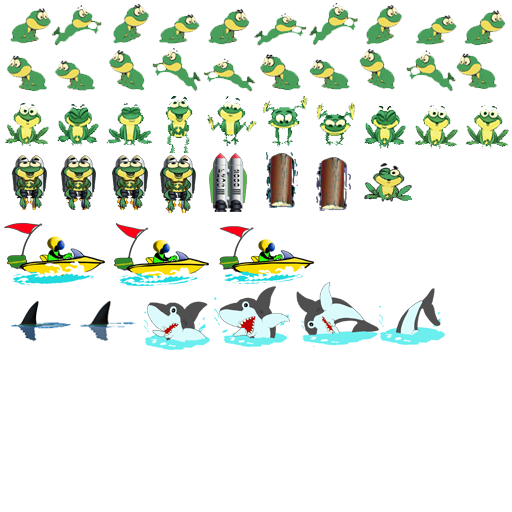
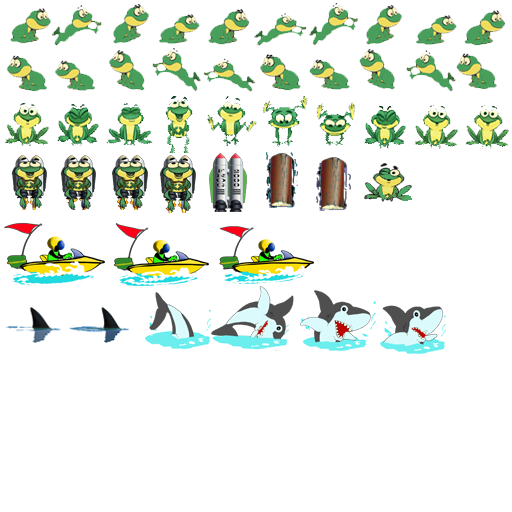
Sharks!! still needs work but theyre there now.

Changed region(s): [[0.2812, 0.5312, 0.875, 0.6875], [0.0312, 0.5938, 0.25, 0.6875]]

diff --git a/core/src/com/upstream/World.java b/core/src/com/upstream/World.java
@@ -22,10 +22,11 @@ public class World {
 	}
 
 	public static final float WORLD_WIDTH = 10;
-	public static final float WORLD_HEIGHT = 15 * 20;
+	public static final float WORLD_HEIGHT = 15 * 30; // changed for testing from 15*20
 	public static final int WORLD_STATE_RUNNING = 0;
 	public static final int WORLD_STATE_NEXT_LEVEL = 1;
 	public static final int WORLD_STATE_GAME_OVER = 2;
+    public static final int WORLD_END_LEVEL = 2;
 	public static final Vector2 gravity = new Vector2(0, -12);
 
 	public final Frog frog;
@@ -33,6 +34,7 @@ public class World {
 	public final List<TreeLog> treeLogs;
 	public final List<Turtle> turtles;
 	public final List<Alligator> alligators;
+    public final List<Shark> sharks;
 	public final List<Fly> flys;
 	public GoldenTurtle goldenturtle;
 	public final WorldListener listener;
@@ -42,6 +44,7 @@ public class World {
 	public int score;
     public int mode;
 	public int state;
+    public int level;
 	public Scoring scoring;
 
 	public World (WorldListener listener) {
@@ -50,6 +53,7 @@ public class World {
 		this.treeLogs = new ArrayList<TreeLog>();
 		this.turtles = new ArrayList<Turtle>();
 		this.alligators = new ArrayList<Alligator>();
+        this.sharks = new ArrayList<Shark>();
 		this.flys = new ArrayList<Fly>();
 		this.listener = listener;
 		rand = new Random();
@@ -85,12 +89,18 @@ public class World {
                         LillyPad.PLATFORM_HEIGHT / 2 + TreeLog.PLATFORM_HEIGHT / 2);
 				treeLogs.add(treeLog);
 			}
-            if(mode==1)
-			if (y > WORLD_HEIGHT / 3 && rand.nextFloat() > 0.9f) {
-				Alligator alligator = new Alligator(lillyPad.position.x + rand.nextFloat(), lillyPad.position.y
-					+ Alligator.GATOR_HEIGHT + rand.nextFloat() * 2);
-				alligators.add(alligator);
-			}
+            if(mode==1) {
+                if (y > WORLD_HEIGHT / 3 && rand.nextFloat() > 0.9f) {
+                    Alligator alligator = new Alligator(lillyPad.position.x + rand.nextFloat(), lillyPad.position.y
+                            + Alligator.GATOR_HEIGHT + rand.nextFloat() * 2);
+                    alligators.add(alligator);
+                }
+                if (y > WORLD_HEIGHT / 4 && rand.nextFloat() > 0.5f) {
+                    Shark shark = new Shark(lillyPad.position.x + rand.nextFloat(), lillyPad.position.y
+                            + Shark.SHARK_HEIGHT + rand.nextFloat() * 2);
+                    sharks.add(shark);
+                }
+            }
             if(mode==2)
                 if (y > WORLD_HEIGHT / 3 && rand.nextFloat() > 0.8f) {
                     Alligator alligator = new Alligator(lillyPad.position.x + rand.nextFloat(), lillyPad.position.y
@@ -121,9 +131,11 @@ public class World {
 		updateFrog(deltaTime, accelX);
 		updatePlatforms(deltaTime);
 		updateAlligators(deltaTime);
+        updateSharks(deltaTime);
 		updateFlys(deltaTime);
         updateLogs(deltaTime);
 		if (frog.state != Frog.FROG_STATE_HIT) checkCollisions();
+		checkLevelOver();
 		checkGameOver();
 	}
 
@@ -154,6 +166,14 @@ public class World {
 		}
 	}
 
+    private void updateSharks (float deltaTime) {
+        int len = sharks.size();
+        for (int i = 0; i < len; i++) {
+            Shark shark = sharks.get(i);
+            shark.update(deltaTime);
+        }
+    }
+
 	private void updateFlys (float deltaTime) {
 		int len = flys.size();
 		for (int i = 0; i < len; i++) {
@@ -172,6 +192,7 @@ public class World {
 	private void checkCollisions () {
 		checkLillypadCollisions();
 		checkAlligatorCollisions();
+        checkSharkCollisions();
 		checkItemCollisions();
 		checkGoldenTurtleCollisions();
 	}
@@ -205,7 +226,16 @@ public class World {
 			}
 		}
 	}
-
+    private void checkSharkCollisions() {
+        int len = sharks.size();
+        for (int i = 0; i < len; i++) {
+            Shark shark = sharks.get(i);
+            if (shark.bounds.overlaps(frog.bounds) && shark.getSharkState()== Shark.SHARK_JUMPING) {
+                frog.hitAlligator();
+                listener.hit();
+            }
+        }
+    }
 	private void checkItemCollisions () {
 		int len = flys.size();
         for (int i = 0; i < len; i++) {
@@ -242,12 +272,18 @@ public class World {
 
 	private void checkGoldenTurtleCollisions () {
 		if (goldenturtle.bounds.overlaps(frog.bounds)) {
+            level++;
 			state = WORLD_STATE_NEXT_LEVEL;
 		}
 	}
-
+	private void checkLevelOver () {
+		if (level < WORLD_END_LEVEL ) {
+			score = scoring.currentScore;
+			state = WORLD_STATE_RUNNING;
+		}
+	}
 	private void checkGameOver () {
-		if (heightSoFar - 7.5f > frog.position.y) {
+		if (heightSoFar - 7.5f > frog.position.y || level >= WORLD_END_LEVEL ) {
 
 			// let server knows the game is done and retrieve the final
 			// score back from server

diff --git a/core/src/com/upstream/WorldRenderer.java b/core/src/com/upstream/WorldRenderer.java
@@ -8,6 +8,10 @@ import com.badlogic.gdx.graphics.OrthographicCamera;
 import com.badlogic.gdx.graphics.g2d.SpriteBatch;
 import com.badlogic.gdx.graphics.g2d.TextureRegion;
 
+import java.util.Random;
+
+import static com.badlogic.gdx.math.MathUtils.random;
+
 public class WorldRenderer {
 	static final float FRUSTUM_WIDTH = 10;
 	static final float FRUSTUM_HEIGHT = 15;
@@ -15,12 +19,12 @@ public class WorldRenderer {
 	OrthographicCamera cam;
 	SpriteBatch batch;
 	float drift = (float) 0.1;
-
+    public final Random rand;
 
 
 	public WorldRenderer (SpriteBatch batch, World world) {
 		this.world = world;
-
+        rand = new Random();
 		this.cam = new OrthographicCamera(FRUSTUM_WIDTH, FRUSTUM_HEIGHT);
 		this.cam.position.set(FRUSTUM_WIDTH / 2, FRUSTUM_HEIGHT / 2, 0);
 		this.batch = batch;
@@ -50,12 +54,40 @@ public class WorldRenderer {
         renderlillypads();
 		renderItems();
 		renderAlligators();
+        renderSharks();
 		renderGoldenTurtle();
         renderFrog();
 		batch.end();
 	}
 
-	private void renderFrog () {
+    private void renderSharks() {
+        int len = world.sharks.size();
+        for (int i = 0; i < len; i++) {
+            Shark shark = world.sharks.get(i);
+            if(shark.getSharkState()==shark.SHARK_FIN) {
+                TextureRegion keyFrame = Assets.sharkFin.getKeyFrame(shark.stateTime, Animation.ANIMATION_LOOPING);
+                if (rand.nextFloat() > .9 &&shark.swimcount>25)
+                   shark.setSharkState(shark.SHARK_JUMPING);
+                float side = shark.velocity.x < 0 ? -1 : 1;
+                if (side < 0)
+                    batch.draw(keyFrame, shark.position.x + 0.5f, shark.position.y - 0.5f, side * 1, 1);
+                else
+                    batch.draw(keyFrame, shark.position.x - 0.5f, shark.position.y - 0.5f, side * 1, 1);
+            }
+            else{
+                TextureRegion keyFrame = Assets.shark.getKeyFrame(shark.stateTime, Animation.ANIMATION_LOOPING);
+                float side = shark.velocity.x < 0 ? -1 : 1;
+                if (side < 0)
+                    batch.draw(keyFrame, shark.position.x + 0.5f, shark.position.y - 0.5f, side * 1, 1);
+                else
+                    batch.draw(keyFrame, shark.position.x - 0.5f, shark.position.y - 0.5f, side * 1, 1);
+                //shark.setSharkState(shark.SHARK_FIN);
+            }
+
+        }
+    }
+
+    private void renderFrog () {
 		TextureRegion keyFrame;
 		switch (world.frog.state) {
 		case Frog.FROG_STATE_FALL:

diff --git a/core/src/com/upstream/Shark.java b/core/src/com/upstream/Shark.java
@@ -1,0 +1,67 @@
+/******************************************************************************
+
+ Created by captnemo on 6/1/2017.
+
+ */
+
+package com.upstream;
+
+
+
+public class Shark extends DynamicGameObject {
+	public static final float SHARK_WIDTH = 1.5f;
+	public static final float SHARK_HEIGHT = 0.5f;
+	public static final float SHARK_VELOCITY = 3f;
+	public static int SHARK_FIN =1;
+	public static int SHARK_JUMPING =2;
+
+
+	float stateTime = 0;
+	int sharkState = SHARK_FIN;
+    int jumpcount=0;
+    int swimcount=0;
+	public Shark(float x, float y) {
+		super(x, y, SHARK_WIDTH, SHARK_HEIGHT);
+		velocity.set(-SHARK_VELOCITY, 0);
+	}
+
+	public void update (float deltaTime) {
+		position.add(velocity.x * deltaTime, velocity.y * deltaTime);
+		bounds.x = position.x - SHARK_WIDTH / 2;
+		bounds.y = position.y - SHARK_HEIGHT / 2;
+
+		if (position.x < SHARK_WIDTH / 2) {
+			position.x = SHARK_WIDTH / 2;
+			velocity.x = SHARK_VELOCITY;
+		}
+		if (position.x > World.WORLD_WIDTH - SHARK_WIDTH / 2) {
+			position.x = World.WORLD_WIDTH - SHARK_WIDTH / 2;
+			velocity.x = -SHARK_VELOCITY;
+		}
+		stateTime += deltaTime;
+	}
+	public void setSharkState(int jumping){
+        if (jumping==SHARK_JUMPING) {
+            sharkState = SHARK_JUMPING;
+            jumpcount=0;
+        }
+        if(jumping==SHARK_FIN)
+            sharkState= SHARK_FIN;
+
+    }
+    public int getSharkState(){
+        if (sharkState==SHARK_JUMPING)
+            jumpcount++;
+        if (jumpcount>20) {
+            sharkState = SHARK_FIN;
+            jumpcount=0;
+        }
+        if(sharkState==SHARK_FIN){
+            swimcount++;
+        }
+        if (swimcount>40) {
+            swimcount=0;
+        }
+        return sharkState;
+    }
+}

diff --git a/core/src/com/upstream/Assets.java b/core/src/com/upstream/Assets.java
@@ -97,9 +97,9 @@ public class Assets {
         speedBoat = new Animation(0.2f, new TextureRegion(items2, 5, 220, 100, 65), new TextureRegion(items2, 108, 220, 100, 65),
                 new TextureRegion(items2, 210, 220, 100, 65), new TextureRegion(items2, 312, 220, 100, 65));
         log = new Animation(0.2f, new TextureRegion(items2, 260, 147, 45, 60), new TextureRegion(items2, 315, 147, 45, 60) );
-        shark = new Animation(0.2f, new TextureRegion(items2, 150, 10, 40, 60), new TextureRegion(items2, 150, 50, 40, 60),
-                new TextureRegion(items2, 64, 150, 40, 60), new TextureRegion(items2, 64, 150, 40, 60));
-        sharkFin = new Animation(0.2f, new TextureRegion(items2, 260, 147, 45, 60), new TextureRegion(items2, 315, 147, 45, 60));
+        shark = new Animation(0.2f, new TextureRegion(items2, 150, 295, 70, 60),new TextureRegion(items2, 212, 286, 70, 60),
+                new TextureRegion(items2, 290, 285, 70, 60),new TextureRegion(items2, 380, 285, 70, 60)	);
+        sharkFin = new Animation(0.2f, new TextureRegion(items2, 10, 295, 65, 50), new TextureRegion(items2, 70, 295, 65, 50));
 		font = new BitmapFont(Gdx.files.internal("data/font.fnt"), Gdx.files.internal("data/font.png"), false);
 
 		music = Gdx.audio.newMusic(Gdx.files.internal("data/pond.mp3"));

diff --git a/core/src/com/upstream/GoldenTurtle.java b/core/src/com/upstream/GoldenTurtle.java
@@ -5,11 +5,11 @@
 package com.upstream;
 
 public class GoldenTurtle extends GameObject {
-	public static float CASTLE_WIDTH = 1.7f;
-	public static float CASTLE_HEIGHT = 1.7f;
+	public static float TURTLE_WIDTH = 1.7f;
+	public static float TURTLE_HEIGHT = 1.7f;
 
 	public GoldenTurtle (float x, float y) {
-		super(x, y, CASTLE_WIDTH, CASTLE_HEIGHT);
+		super(x, y, TURTLE_WIDTH, TURTLE_HEIGHT);
 	}
 
 }
